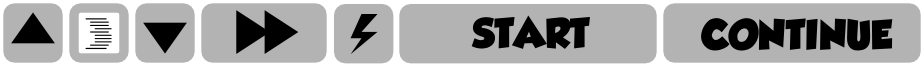
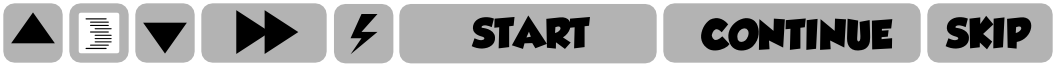
Added skip button

diff --git a/core/src/main/java/es/eucm/lostinspace/core/screens/PhaseScreen.java b/core/src/main/java/es/eucm/lostinspace/core/screens/PhaseScreen.java
@@ -11,11 +11,25 @@ import com.badlogic.gdx.graphics.GL20;
 import com.badlogic.gdx.math.Vector2;
 import com.badlogic.gdx.physics.box2d.Box2DDebugRenderer;
 import com.badlogic.gdx.physics.box2d.World;
-import com.badlogic.gdx.scenes.scene2d.*;
+import com.badlogic.gdx.scenes.scene2d.Actor;
+import com.badlogic.gdx.scenes.scene2d.Group;
+import com.badlogic.gdx.scenes.scene2d.InputEvent;
+import com.badlogic.gdx.scenes.scene2d.InputListener;
+import com.badlogic.gdx.scenes.scene2d.Stage;
 
 import es.eucm.ead.tools.xml.XMLParser;
-import es.eucm.lostinspace.core.*;
-import es.eucm.lostinspace.core.actions.*;
+import es.eucm.lostinspace.core.AssetManager;
+import es.eucm.lostinspace.core.LevelManager;
+import es.eucm.lostinspace.core.LostInSpace;
+import es.eucm.lostinspace.core.MessageListener;
+import es.eucm.lostinspace.core.PhaseManager;
+import es.eucm.lostinspace.core.Pools;
+import es.eucm.lostinspace.core.SpaceContactListener;
+import es.eucm.lostinspace.core.actions.GhostAction;
+import es.eucm.lostinspace.core.actions.MoveAction;
+import es.eucm.lostinspace.core.actions.RotateAction;
+import es.eucm.lostinspace.core.actions.ShootAction;
+import es.eucm.lostinspace.core.actions.SpeakAction;
 import es.eucm.lostinspace.core.actors.Grid;
 import es.eucm.lostinspace.core.actors.ImageActor;
 import es.eucm.lostinspace.core.actors.Map;
@@ -73,8 +87,10 @@ public class PhaseScreen implements Screen {
 	public static TweenManager tweenManager;
 
 	public static Pools pools;
+	private boolean skipCutscene;
 
 	public PhaseScreen () {
+		skipCutscene = false;
 		phaseManager = LostInSpace.phaseManager;
 		// Color to clear the background
 		pools = LostInSpace.pools;
@@ -118,6 +134,18 @@ public class PhaseScreen implements Screen {
 		if (debug) {
 			addDebug();
 		}
+
+		stage.addCaptureListener(new InputListener() {
+			@Override
+			public boolean keyDown (InputEvent event, int keycode) {
+				switch (keycode) {
+				case Input.Keys.SPACE:
+					skipCutscene();
+					break;
+				}
+				return super.keyDown(event, keycode);
+			}
+		});
 
 	}
 
@@ -206,11 +234,21 @@ public class PhaseScreen implements Screen {
 	public void render (float delta) {
 		Gdx.gl.glClear(GL20.GL_COLOR_BUFFER_BIT);
 		float step = Math.min(delta, 1 / 30f);
-		tweenManager.update(step);
-		phaseManager.act(step);
-		stage.act(step);
+		if (skipCutscene && phaseManager.isInCutscene()) {
+			while (phaseManager.isInCutscene()) {
+				tweenManager.update(step);
+				phaseManager.act(step);
+				stage.act(step);
+				world.step(step, 10, 10);
+			}
+			skipCutscene = false;
+		} else {
+			tweenManager.update(step);
+			phaseManager.act(step);
+			stage.act(step);
+			world.step(step, 10, 10);
+		}
 		stage.draw();
-		world.step(step, 10, 10);
 		if (debug) {
 			box2Drenderer.render(world, stage.getCamera().combined);
 		}
@@ -256,6 +294,12 @@ public class PhaseScreen implements Screen {
 
 	public static void msg (String msg) {
 		messageListener.msg(msg);
+	}
+
+	public void skipCutscene () {
+		if (phaseManager.isInCutscene()) {
+			skipCutscene = true;
+		}
 	}
 
 }

diff --git a/core/src/main/java/es/eucm/lostinspace/core/hud/maphud/MapHud.java b/core/src/main/java/es/eucm/lostinspace/core/hud/maphud/MapHud.java
@@ -9,6 +9,8 @@ import aurelienribon.tweenengine.TweenEquations;
 import com.badlogic.gdx.graphics.Color;
 import com.badlogic.gdx.scenes.scene2d.Actor;
 import com.badlogic.gdx.scenes.scene2d.Group;
+import com.badlogic.gdx.scenes.scene2d.InputEvent;
+import com.badlogic.gdx.scenes.scene2d.InputListener;
 import com.badlogic.gdx.scenes.scene2d.ui.Label;
 import com.badlogic.gdx.scenes.scene2d.utils.Align;
 import com.badlogic.gdx.utils.Pool;
@@ -39,6 +41,8 @@ public class MapHud extends Group implements TweenCallback {
 	/** Score style */
 	private Label.LabelStyle scoreStyle;
 
+	private ImageActor skipButton;
+
 	private String scoreString;
 
 	/** Labels pool */
@@ -68,6 +72,22 @@ public class MapHud extends Group implements TweenCallback {
 		score.setAlignment(Align.left);
 		score.setWidth(PhaseScreen.STAGE_WIDTH);
 		initTransition();
+
+		skipButton = new ImageActor();
+		skipButton.setTextureRegion("hud.png", 14, 0, 2, 1, true);
+		skipButton.setPosition(0, 0);
+		skipButton.setSize(PhaseScreen.SQUARE_SIZE * 2, PhaseScreen.SQUARE_SIZE);
+		skipButton.setVisible(false);
+		skipButton.addListener(new InputListener() {
+			@Override
+			public boolean touchDown (InputEvent event, float x, float y, int pointer, int button) {
+				skipButton.setVisible(false);
+				LostInSpace.phaseScreen.skipCutscene();
+				return false;
+			}
+		});
+
+		this.addActor(skipButton);
 		this.addActor(startScreen);
 		this.addActor(gameOverScreen);
 		this.addActor(phaseResults);
@@ -150,5 +170,9 @@ public class MapHud extends Group implements TweenCallback {
 					labelsPool.free((Label)source.getUserData());
 				}
 			}).start(PhaseScreen.tweenManager);
+	}
+
+	public void setVisibleSkip (boolean visible) {
+		skipButton.setVisible(visible);
 	}
 }

diff --git a/core/src/main/java/es/eucm/lostinspace/core/LevelManager.java b/core/src/main/java/es/eucm/lostinspace/core/LevelManager.java
@@ -185,23 +185,22 @@ public class LevelManager {
 		return totalInstructions;
 	}
 
-
-	public void storeLevels(){
+	public void storeLevels () {
 		pref.putInteger("ts", totalScore);
-		for ( int i = 0; i < totalLevels.length; i++ ){
+		for (int i = 0; i < totalLevels.length; i++) {
 			pref.putInteger("l" + i, totalLevels[i]);
 		}
-		for ( int i = 0; i < totalInstructions.length; i++ ){
+		for (int i = 0; i < totalInstructions.length; i++) {
 			pref.putInteger("i" + i, totalInstructions[i]);
 		}
 	}
 
-	public void restoreLevels(){
+	public void restoreLevels () {
 		totalScore = pref.getInteger("ts", 0);
-		for ( int i = 0; i < totalLevels.length; i++ ){
+		for (int i = 0; i < totalLevels.length; i++) {
 			totalLevels[i] = pref.getInteger("l" + i, 0);
 		}
-		for ( int i = 0; i < totalInstructions.length; i++ ){
+		for (int i = 0; i < totalInstructions.length; i++) {
 			totalInstructions[i] = pref.getInteger("i" + i, 0);
 		}
 	}

diff --git a/core/src/main/java/es/eucm/lostinspace/core/PhaseManager.java b/core/src/main/java/es/eucm/lostinspace/core/PhaseManager.java
@@ -110,8 +110,10 @@ public class PhaseManager /* implements XMLParser.ErrorHandler */{
 				currentStep = scriptSteps.removeIndex(0);
 				currentStep.start();
 				PhaseScreen.console.setEnable(false);
+				PhaseScreen.mapHud.setVisibleSkip(true);
 			} else {
 				PhaseScreen.console.setEnable(true);
+				PhaseScreen.mapHud.setVisibleSkip(false);
 			}
 			PhaseScreen.mapHud.startPhase();
 		}
@@ -135,6 +137,7 @@ public class PhaseManager /* implements XMLParser.ErrorHandler */{
 				currentStep = null;
 				state = IN_PHASE;
 				PhaseScreen.console.setEnable(true);
+				PhaseScreen.mapHud.setVisibleSkip(false);
 			}
 		}
 
@@ -324,5 +327,9 @@ public class PhaseManager /* implements XMLParser.ErrorHandler */{
 
 	public void error (String message) {
 		this.errorMessage = message;
+	}
+
+	public boolean isInCutscene () {
+		return state == IN_CUTSCENE;
 	}
 }

diff --git a/core/src/main/java/es/eucm/lostinspace/core/AssetManager.java b/core/src/main/java/es/eucm/lostinspace/core/AssetManager.java
@@ -96,7 +96,7 @@ public class AssetManager extends com.badlogic.gdx.assets.AssetManager {
 		String[] images = new String[] {"grid.png", "placeholder.png", "bullet.png", "textbox.png", "ship.png", "wall.png",
 			"warp.png", "hud.png", "comm.png", "rocks.png", "levelups.png", "trigger.png", "titlescreen.png", "endscreen.png",
 			"helpbg.png", "balloon.png", "logo.png", "title.png", "xmledition.png"};
-		int[] columns = new int[] {16, 1, 1, 1, 1, 3, 1, 14, 5, 2, 5, 2, 1, 1, 1, 3, 2, 14, 3};
+		int[] columns = new int[] {16, 1, 1, 1, 1, 3, 1, 16, 5, 2, 5, 2, 1, 1, 1, 3, 2, 14, 3};
 
 		if (images.length != columns.length) {
 			Gdx.app.log("AssetManager", "Some image is missing its columns");

diff --git a/core/src/main/java/es/eucm/lostinspace/core/LostInSpace.java b/core/src/main/java/es/eucm/lostinspace/core/LostInSpace.java
@@ -20,7 +20,7 @@ public class LostInSpace extends Game {
 	public static Tracker gleanerTracker;
 	public static LevelManager levelManager;
 
-	private PhaseScreen phaseScreen;
+	public static PhaseScreen phaseScreen;
 
 	private TitleScreen titleScreen;
 
@@ -44,7 +44,7 @@ public class LostInSpace extends Game {
 		this.setScreen(phaseScreen);
 	}
 
-	public void continueGame() {
+	public void continueGame () {
 		Preferences pref = Gdx.app.getPreferences("lis");
 		String phase = pref.getString("phase");
 		phaseManager.setFirstPhase(phase);

diff --git a/core/src/main/java/es/eucm/lostinspace/core/screens/TitleScreen.java b/core/src/main/java/es/eucm/lostinspace/core/screens/TitleScreen.java
@@ -61,7 +61,7 @@ public class TitleScreen implements Screen {
 		continueButton.setHoverEffect(true);
 		continueButton.addListener(new InputListener() {
 			@Override
-			public boolean touchDown(InputEvent event, float x, float y, int pointer, int button) {
+			public boolean touchDown (InputEvent event, float x, float y, int pointer, int button) {
 				game.continueGame();
 				return false;
 			}
